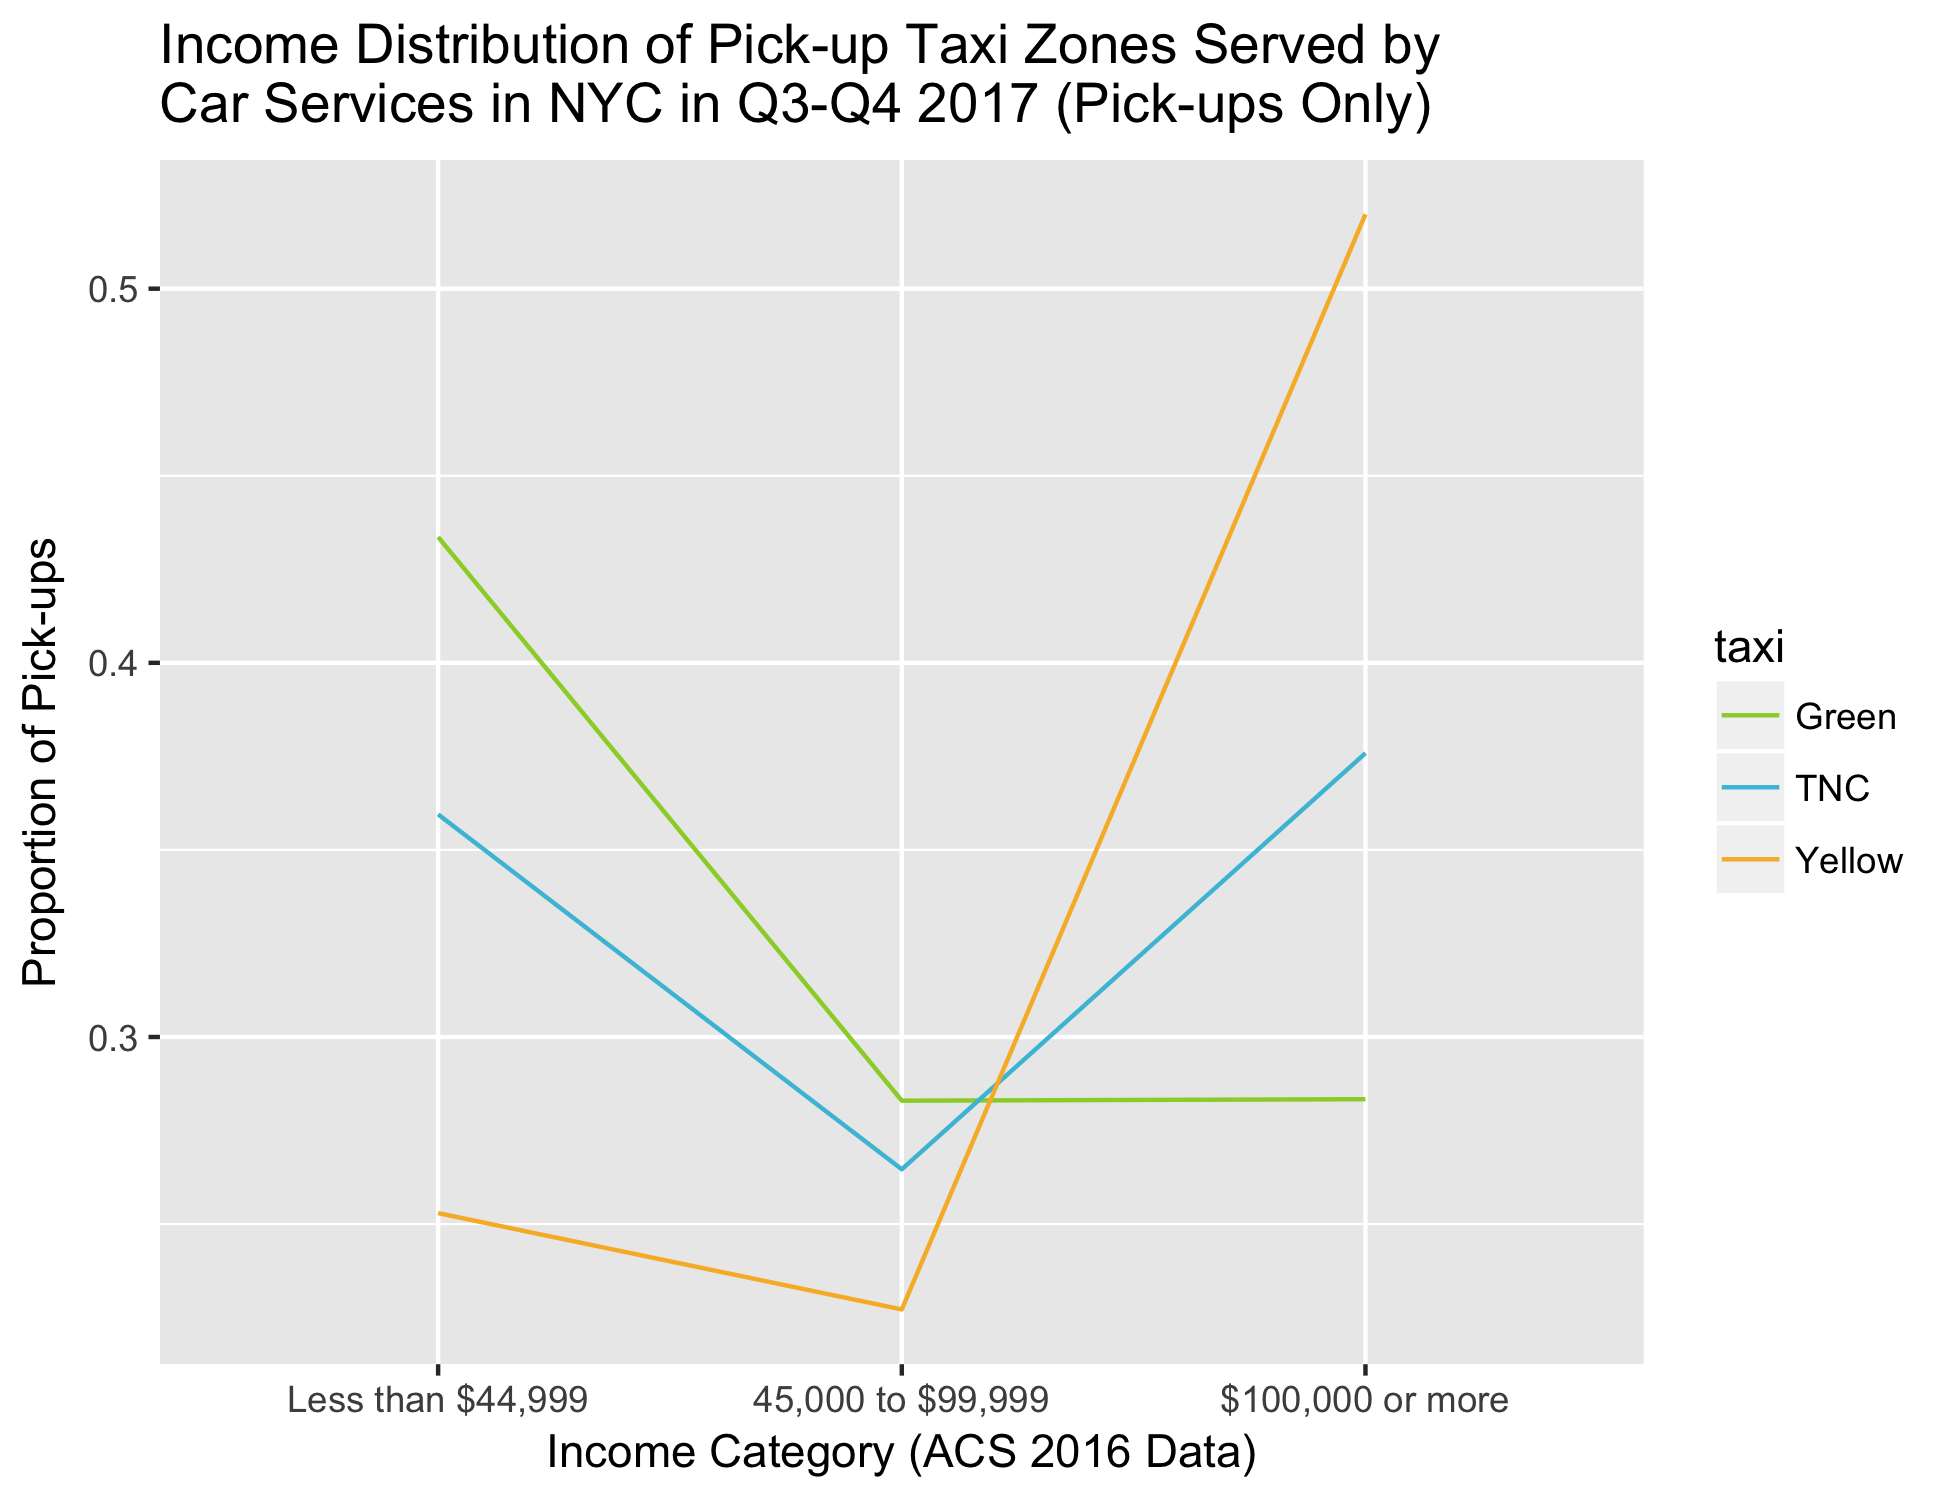
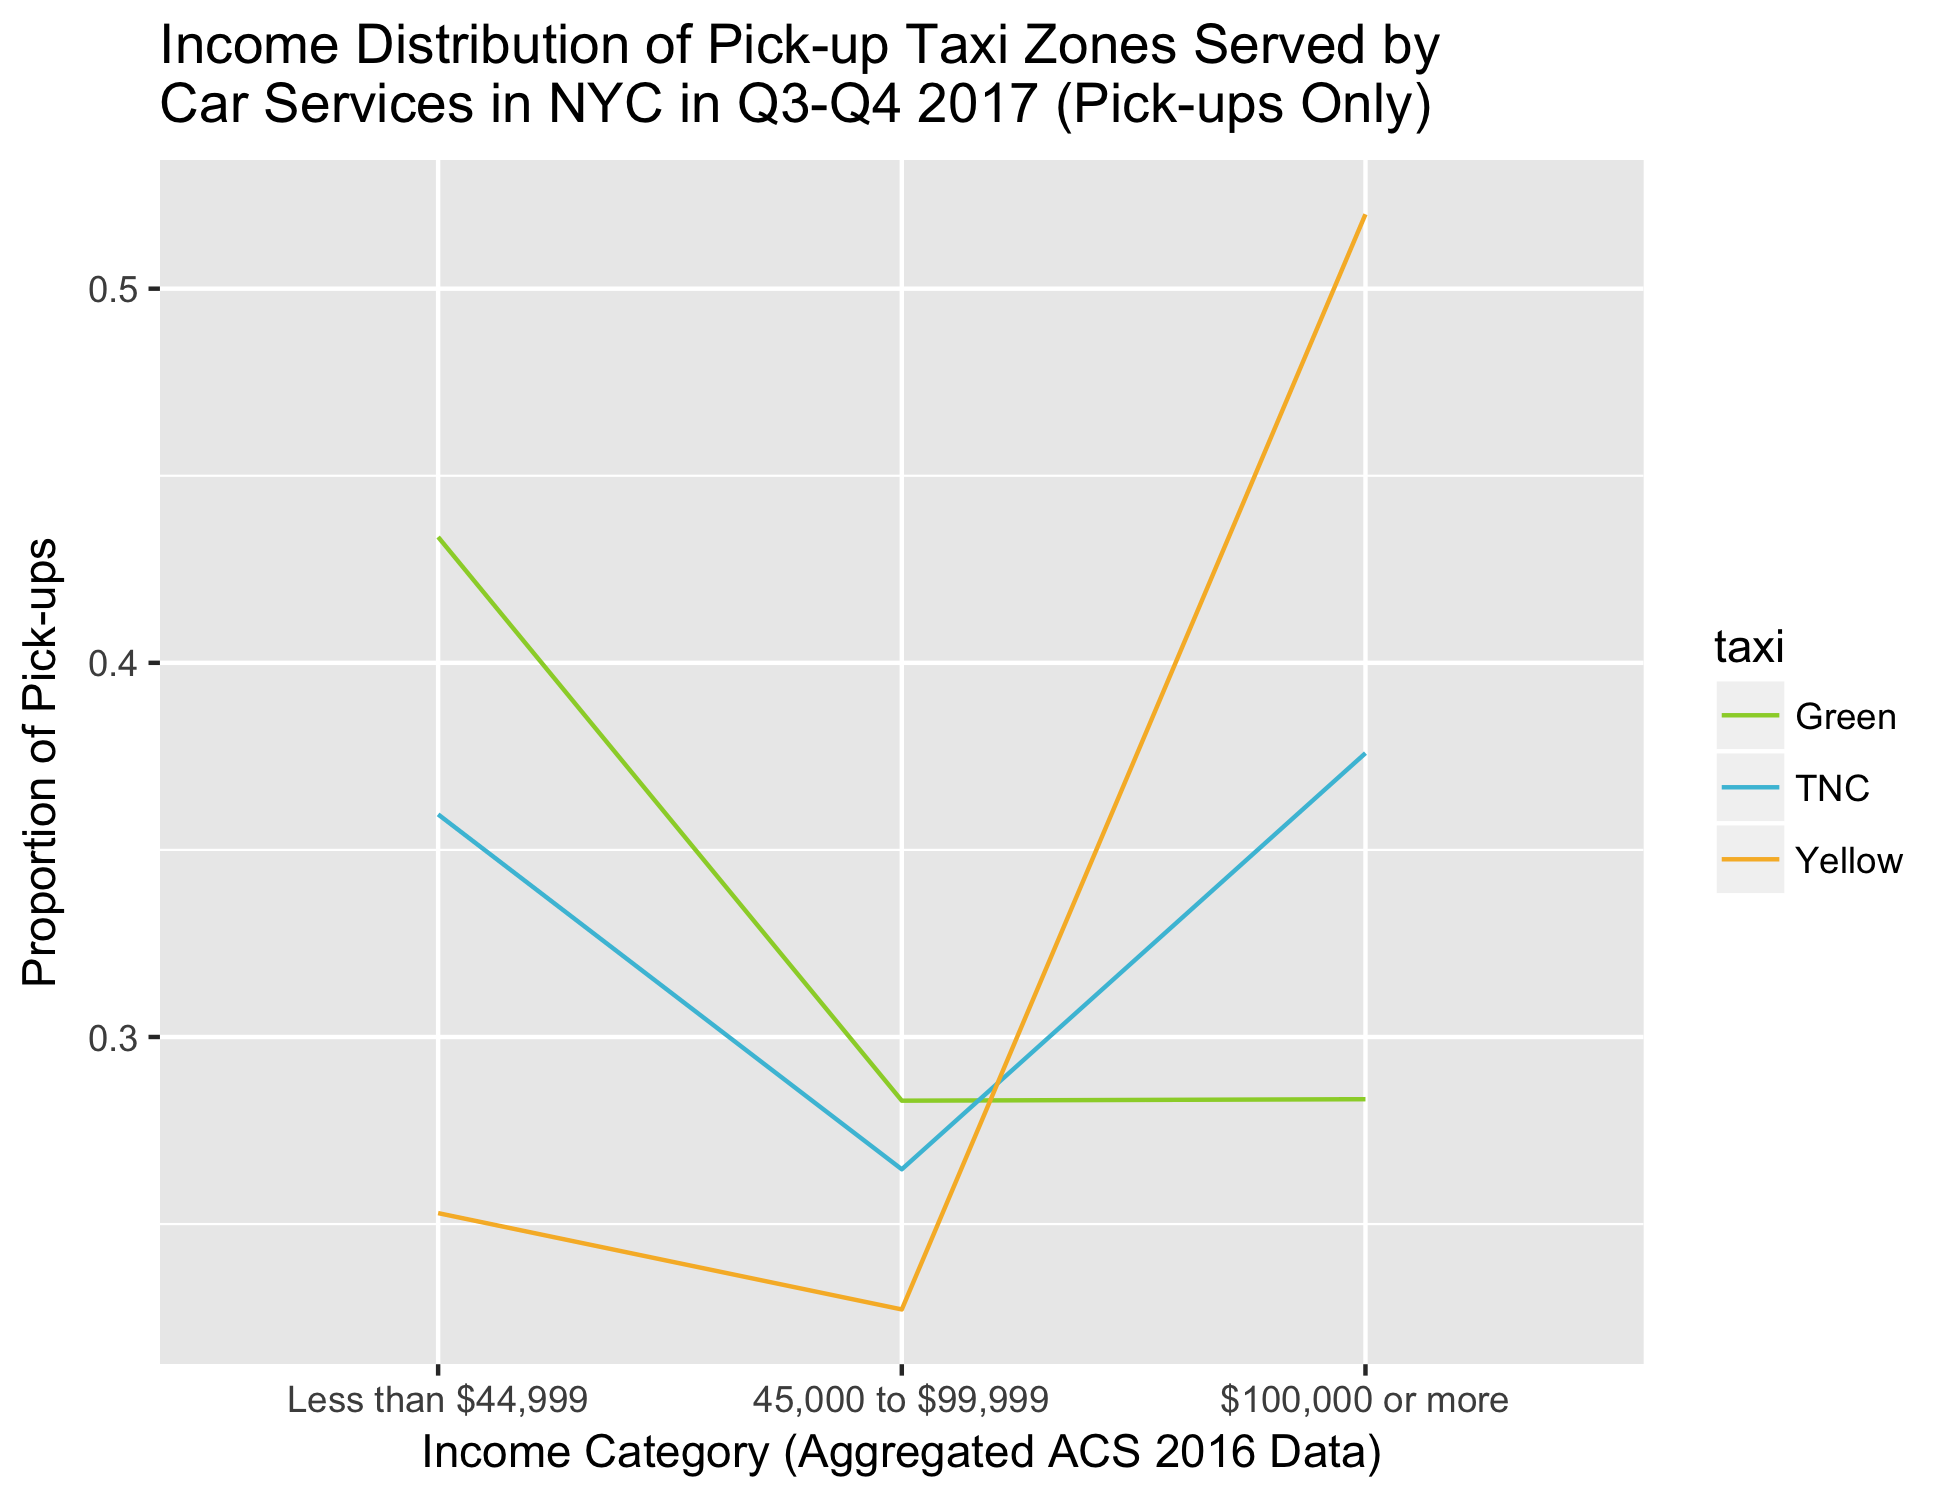
Updated plot axis labels for collapsed income categories

Changed region(s): [[0.2154, 0.9507, 0.7077, 0.9813]]

diff --git a/README.md b/README.md
@@ -4,6 +4,8 @@ This repository is a visualization of the income distribution the areas served b
 
 The repo contains the code required to download and process the raw data, interstitial .RData files produced by the raw data processing, scripts to produce plots of car service income distributions, and the resulting plots.
 
+![Income Distribution in Taxi Zones Served by Car Services in NYC in Q3-Q4 2017 (Pick-ups and Drop-offs)"](figures/pudo_relative_income_dist_1_new_cats.png)
+
 ## Directory Structure
 
 The code is in R. This repo doesn't currently conform to the R package standard. The directory structure is as follows:
@@ -33,7 +35,7 @@ cd ..
 
 We only use the second half of 2017 because at the start of that year, TNCs didn't report the location of their pick-ups and drop-offs. The script `data-raw/plot_tnc_pudo_reporting.R` will plot this data, using downloading the requisite data files at runtime using `read_csv()`. Be warned, these are large files, so this script is fairly RAM-heavy and takes a while to run. It's not required to do the full analysis.
 
-![Plot of TNC Pudo Reporting](figures/tnc_pudo_reporting.png)
+![Proportion of TNC pick-ups and drop-offs with missing data](figures/tnc_pudo_reporting.png)
 
 ### Processing Taxi Data
 
